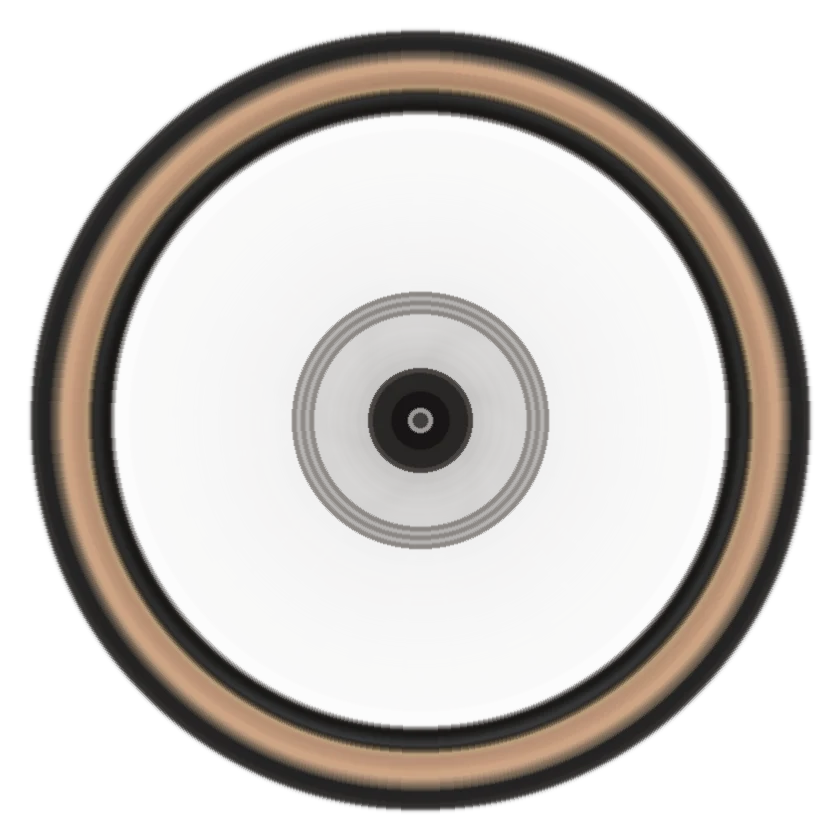
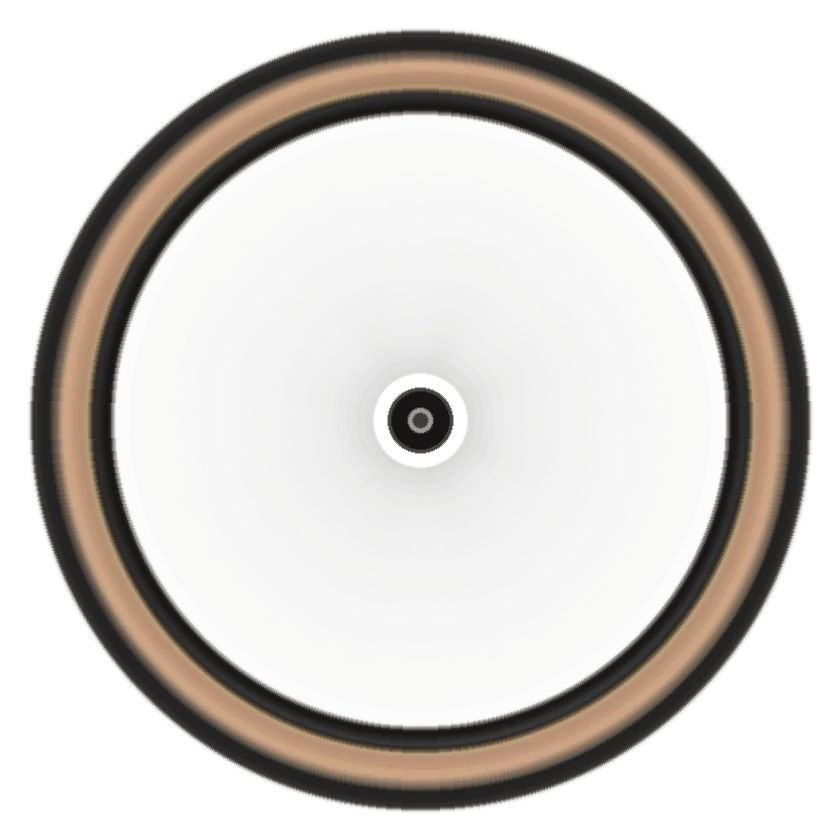
Disco de freio da foto real, parado; só pneu, aro e raios giram

Changed region(s): [[0.3405, 0.3405, 0.681, 0.681]]

diff --git a/atual/index.html b/atual/index.html
@@ -14,7 +14,7 @@
 <link rel="preload" href="assets/fontes/barlow-condensed-latin-800-italic.woff2" as="font" type="font/woff2" crossorigin>
 <link rel="preload" href="assets/fontes/inter-latin-400-normal.woff2" as="font" type="font/woff2" crossorigin>
 <link rel="stylesheet" href="assets/site.css">
-<link rel="stylesheet" href="assets/cena.css?v=5">
+<link rel="stylesheet" href="assets/cena.css?v=6">
 <link rel="preload" as="image" href="assets/cena/quadro.webp">
 <script src="assets/vendor/gsap.min.js" defer></script>
 <script src="assets/vendor/ScrollTrigger.min.js" defer></script>
@@ -63,14 +63,14 @@
     <div class="palco-area">
       <div class="palco" id="palco">
         <div class="sombra" aria-hidden="true"></div>
-        <div class="parte roda" id="p-rt"><img src="assets/cena/roda-tras.webp?v=5" alt="" class="g" width="840" height="840"><img src="assets/cena/roda-tras-giro.webp?v=5" alt="" class="g giro" width="840" height="840">
+        <div class="parte roda" id="p-rt"><img src="assets/cena/roda-tras.webp?v=6" alt="" class="g" width="840" height="840"><img src="assets/cena/roda-tras-giro.webp?v=6" alt="" class="g giro" width="840" height="840">
           <a class="rot rot-rt" href="https://6afee227e12ae1f82abc1a2f--impactobike.netlify.app/c/pecas/rodas-e-pneus/"><b>Rodas e pneus</b><span>137 produtos →</span></a></div>
-        <div class="parte roda" id="p-rf"><img src="assets/cena/roda-frente.webp?v=5" alt="" class="g" width="840" height="840"><img src="assets/cena/roda-frente-giro.webp?v=5" alt="" class="g giro" width="840" height="840">
+        <div class="parte roda" id="p-rf"><img src="assets/cena/roda-frente.webp?v=6" alt="" class="g" width="840" height="840"><img src="assets/cena/roda-frente-giro.webp?v=6" alt="" class="g giro" width="840" height="840"><img src="assets/cena/disco-frente.webp?v=6" alt="" class="fixo" width="840" height="840">
           <a class="rot rot-rf" href="https://6afee227e12ae1f82abc1a2f--impactobike.netlify.app/c/pecas/freios/"><b>Freios e discos</b><span>165 produtos →</span></a></div>
         <div class="parte" id="p-qd"><img src="assets/cena/quadro.webp" alt="Bicicleta de carbono vinho com transmissão Shimano" width="1054" height="870">
           <a class="rot rot-qd1" href="https://6afee227e12ae1f82abc1a2f--impactobike.netlify.app/c/pecas/quadros-e-suspensoes/"><b>Quadros e suspensões</b><span>29 produtos →</span></a>
           <a class="rot rot-qd2" href="https://6afee227e12ae1f82abc1a2f--impactobike.netlify.app/c/pecas/transmissao/"><b>Transmissão Shimano</b><span>451 produtos →</span></a></div>
-        <div class="parte" id="p-fr"><img src="assets/cena/frente.webp?v=5" alt="" width="377" height="760">
+        <div class="parte" id="p-fr"><img src="assets/cena/frente.webp?v=6" alt="" width="377" height="760">
           <a class="rot rot-fr1" href="https://6afee227e12ae1f82abc1a2f--impactobike.netlify.app/c/pecas/quadros-e-suspensoes/suspensoes-e-garfos/"><b>Suspensões e garfos</b><span>16 produtos →</span></a>
           <a class="rot rot-fr2" href="https://6afee227e12ae1f82abc1a2f--impactobike.netlify.app/c/pecas/componentes/"><b>Guidão, mesa e manete</b><span>434 produtos →</span></a></div>
         <div class="parte" id="p-se"><img src="assets/cena/selim.webp" alt="">

diff --git a/atual/assets/cena.css b/atual/assets/cena.css
@@ -49,8 +49,9 @@ html.lenis,html.lenis body{height:auto}
 .parte .g{position:absolute;inset:0;height:100%}
 .parte.roda{aspect-ratio:1}
 .parte .giro{opacity:0}
+.parte .fixo{position:absolute;inset:0;width:100%;height:100%}
 #p-rt{left:.537%;top:31.575%;width:41.016%}
-#p-rf{left:58.339%;top:32.655%;width:41.016%}
+#p-rf{left:57.91%;top:31.355%;width:41.016%}
 #p-qd{left:15.82%;top:17.509%;width:51.465%}
 #p-fr{left:61.621%;top:9.451%;width:18.408%}
 #p-se{left:25.684%;top:14.432%;width:13.477%}
